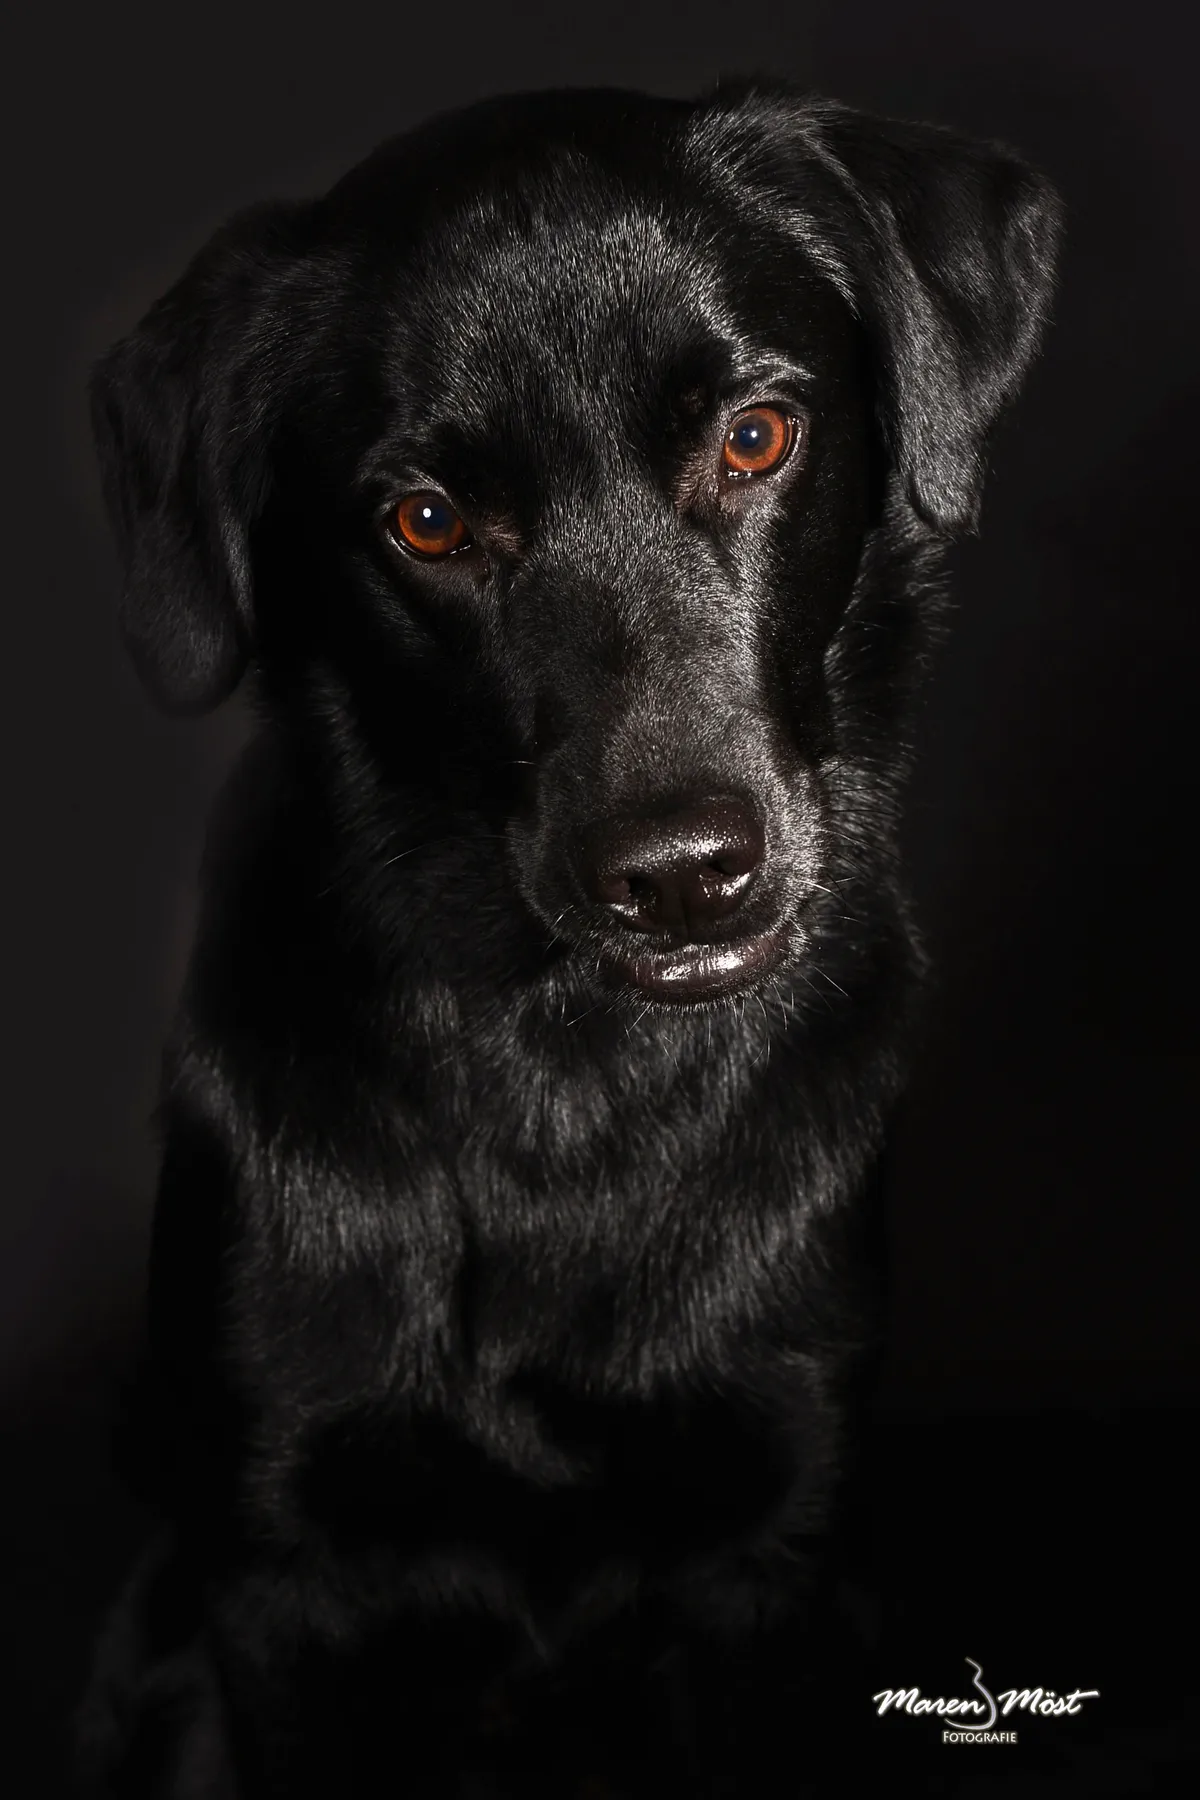
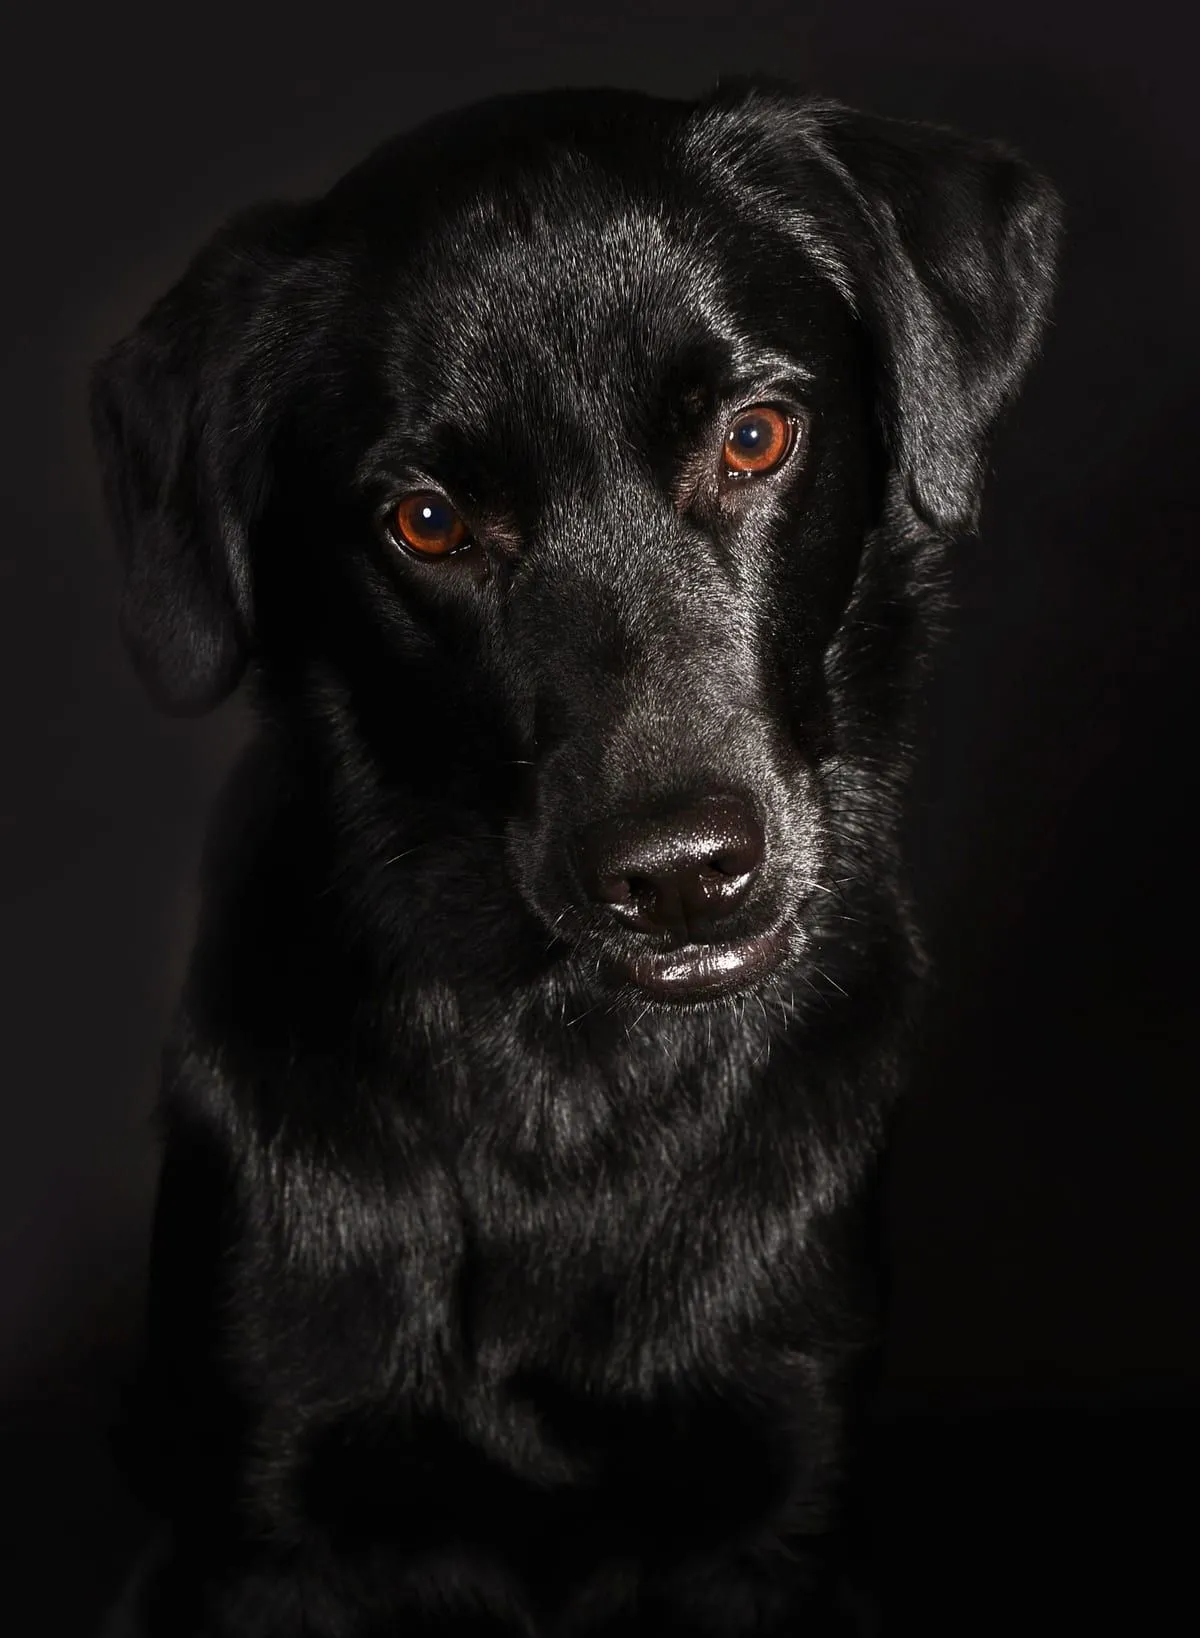
dog-07 (Intro-Foto Startseite): Wasserzeichen unten ausgeschnitten
dog-07.jpg + .webp unten um ~9% beschnitten (1800 -> 1638 px), entfernt die
"Maren Möst Fotografie"-Signatur rechts unten. img width/height-Attribute auf
1200x1638 angepasst (index, portfolio, index-print) gegen Layout-Shift.

diff --git a/index.html b/index.html
@@ -152,7 +152,7 @@
         <p>Zeitlos, elegant und mit bleibendem Wert, keine Bilder von der Stange, sondern Kunstwerke, die ein Leben lang berühren.</p>
       </div>
       <figure class="media media--zoom intro-card__media" data-reveal data-reveal-delay="1" aria-label="Fine-Art-Hundeporträt">
-        <picture><source srcset="images/dog-07.webp" type="image/webp" /><img loading="lazy" class="media__img" src="images/dog-07.jpg" alt="Schwarzer Hund mit ruhigem, direktem Blick im Fine-Art-Studiolicht" width="1200" height="1800" decoding="async" /></picture>
+        <picture><source srcset="images/dog-07.webp" type="image/webp" /><img loading="lazy" class="media__img" src="images/dog-07.jpg" alt="Schwarzer Hund mit ruhigem, direktem Blick im Fine-Art-Studiolicht" width="1200" height="1638" decoding="async" /></picture>
       </figure>
     </div>
   </section>
@@ -304,7 +304,7 @@
       </div>
       <a class="portfolio-teaser" href="portfolio.html" data-reveal aria-label="Alle Arbeiten im Portfolio ansehen">
         <div class="portfolio-teaser__grid" data-collection="portfolio">
-          <figure class="portfolio-teaser__tile"><picture><source srcset="images/dog-07.webp" type="image/webp" /><img loading="lazy" src="images/dog-07.jpg" alt="Schwarzer Hund im Fine-Art-Studioporträt" width="1200" height="1800" decoding="async" /></picture></figure>
+          <figure class="portfolio-teaser__tile"><picture><source srcset="images/dog-07.webp" type="image/webp" /><img loading="lazy" src="images/dog-07.jpg" alt="Schwarzer Hund im Fine-Art-Studioporträt" width="1200" height="1638" decoding="async" /></picture></figure>
           <figure class="portfolio-teaser__tile"><picture><source srcset="images/dog-58.webp" type="image/webp" /><img loading="lazy" src="images/dog-58.jpg" alt="Hund im Fine-Art-Studioporträt" width="1800" height="1197" decoding="async" /></picture></figure>
           <figure class="portfolio-teaser__tile"><picture><source srcset="images/dog-56.webp" type="image/webp" /><img loading="lazy" src="images/dog-56.jpg" alt="Hundeporträt auf dunklem Hintergrund" width="1800" height="1197" decoding="async" /></picture></figure>
           <figure class="portfolio-teaser__tile"><picture><source srcset="images/dog-52.webp" type="image/webp" /><img loading="lazy" src="images/dog-52.jpg" alt="Hund vor dunklem Hintergrund" width="1800" height="1197" decoding="async" /></picture></figure>

diff --git a/index-print.html b/index-print.html
@@ -168,7 +168,7 @@
         <a class="button button--text" href="portfolio.html">Alle Arbeiten ansehen →</a>
       </div>
       <div class="portfolio__grid" data-collection="portfolio">
-        <a class="portfolio-tile" href="portfolio.html" data-reveal><figure class="media" style="aspect-ratio:4/5;overflow:hidden"><picture><source srcset="images/dog-07.webp" type="image/webp" /><img loading="lazy" class="media__img" src="images/dog-07.jpg" alt="Hund im Fine-Art-Studioporträt" width="1200" height="1500" decoding="async" style="object-fit:cover;object-position:50% 32%" /></picture></figure></a>
+        <a class="portfolio-tile" href="portfolio.html" data-reveal><figure class="media" style="aspect-ratio:4/5;overflow:hidden"><picture><source srcset="images/dog-07.webp" type="image/webp" /><img loading="lazy" class="media__img" src="images/dog-07.jpg" alt="Hund im Fine-Art-Studioporträt" width="1200" height="1638" decoding="async" style="object-fit:cover;object-position:50% 32%" /></picture></figure></a>
         <a class="portfolio-tile" href="portfolio.html" data-reveal data-reveal-delay="1"><figure class="media" style="aspect-ratio:4/5;overflow:hidden"><picture><source srcset="images/dog-13.webp" type="image/webp" /><img loading="lazy" class="media__img" src="images/dog-13.jpg" alt="Hund im dramatischen Studiolicht" width="1200" height="1500" decoding="async" style="object-fit:cover;object-position:55% 46%" /></picture></figure></a>
         <a class="portfolio-tile" href="portfolio.html" data-reveal data-reveal-delay="2"><figure class="media" style="aspect-ratio:4/5;overflow:hidden"><picture><source srcset="images/dog-37.webp" type="image/webp" /><img loading="lazy" class="media__img" src="images/dog-37.jpg" alt="Hundeporträt auf dunklem Hintergrund" width="1200" height="1500" decoding="async" style="object-fit:cover;object-position:50% 36%" /></picture></figure></a>
         <a class="portfolio-tile" href="portfolio.html" data-reveal><figure class="media" style="aspect-ratio:4/5;overflow:hidden"><picture><source srcset="images/dog-12.webp" type="image/webp" /><img loading="lazy" class="media__img" src="images/dog-12.jpg" alt="Hund, vertikales Porträt" width="1200" height="1500" decoding="async" style="object-fit:cover;object-position:50% 20%" /></picture></figure></a>

diff --git a/portfolio.html b/portfolio.html
@@ -497,7 +497,7 @@
         </div>
       </div>
       <div class="portfolio__grid portfolio__grid--editorial" data-collection="portfolio" data-gallery>
-        <a class="portfolio-tile" href="images/dog-07.jpg" data-gallery-item data-category="hund" data-reveal><figure class="media media--zoom" style="overflow:hidden"><picture><source srcset="images/dog-07.webp" type="image/webp" /><img loading="lazy" class="media__img" src="images/dog-07.jpg" alt="Ruhiges Hundeporträt in dunkler Fine-Art-Anmutung" width="1200" height="1800" decoding="async" /></picture></figure></a>
+        <a class="portfolio-tile" href="images/dog-07.jpg" data-gallery-item data-category="hund" data-reveal><figure class="media media--zoom" style="overflow:hidden"><picture><source srcset="images/dog-07.webp" type="image/webp" /><img loading="lazy" class="media__img" src="images/dog-07.jpg" alt="Ruhiges Hundeporträt in dunkler Fine-Art-Anmutung" width="1200" height="1638" decoding="async" /></picture></figure></a>
         <a class="portfolio-tile" href="images/dog-11.jpg" data-gallery-item data-category="hund" data-reveal data-reveal-delay="1"><figure class="media media--zoom" style="overflow:hidden"><picture><source srcset="images/dog-11.webp" type="image/webp" /><img loading="lazy" class="media__img" src="images/dog-11.jpg" alt="Charakterstudie eines Hundes vor schwarzem Hintergrund" width="1333" height="2000" decoding="async" /></picture></figure></a>
         <a class="portfolio-tile" href="images/dog-02.jpg" data-gallery-item data-category="hund" data-reveal data-reveal-delay="2"><figure class="media media--zoom" style="overflow:hidden"><picture><source srcset="images/dog-02.webp" type="image/webp" /><img loading="lazy" class="media__img" src="images/dog-02.jpg" alt="Hundeporträt vor tiefschwarzem Studiohintergrund" width="1800" height="1200" decoding="async" /></picture></figure></a>
         <a class="portfolio-tile" href="images/dog-12.jpg" data-gallery-item data-category="hund" data-reveal><figure class="media media--zoom" style="overflow:hidden"><picture><source srcset="images/dog-12.webp" type="image/webp" /><img loading="lazy" class="media__img" src="images/dog-12.jpg" alt="Ruhiges Hundeporträt in dunkler Fine-Art-Anmutung, im Raum Stuttgart" width="1333" height="2000" decoding="async" /></picture></figure></a>